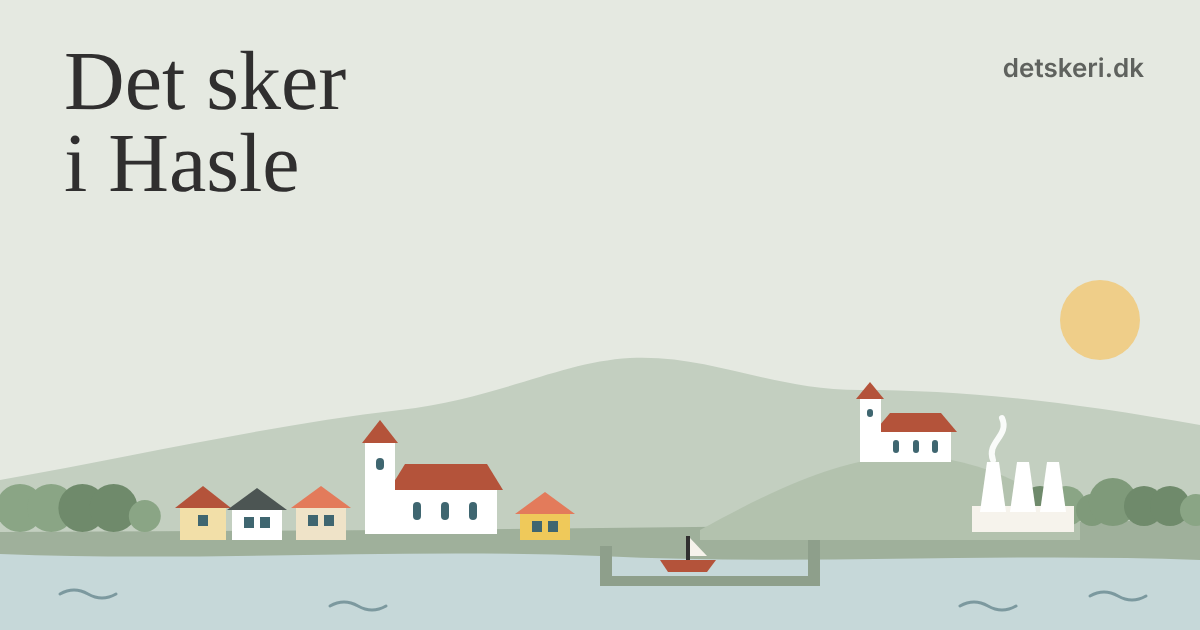
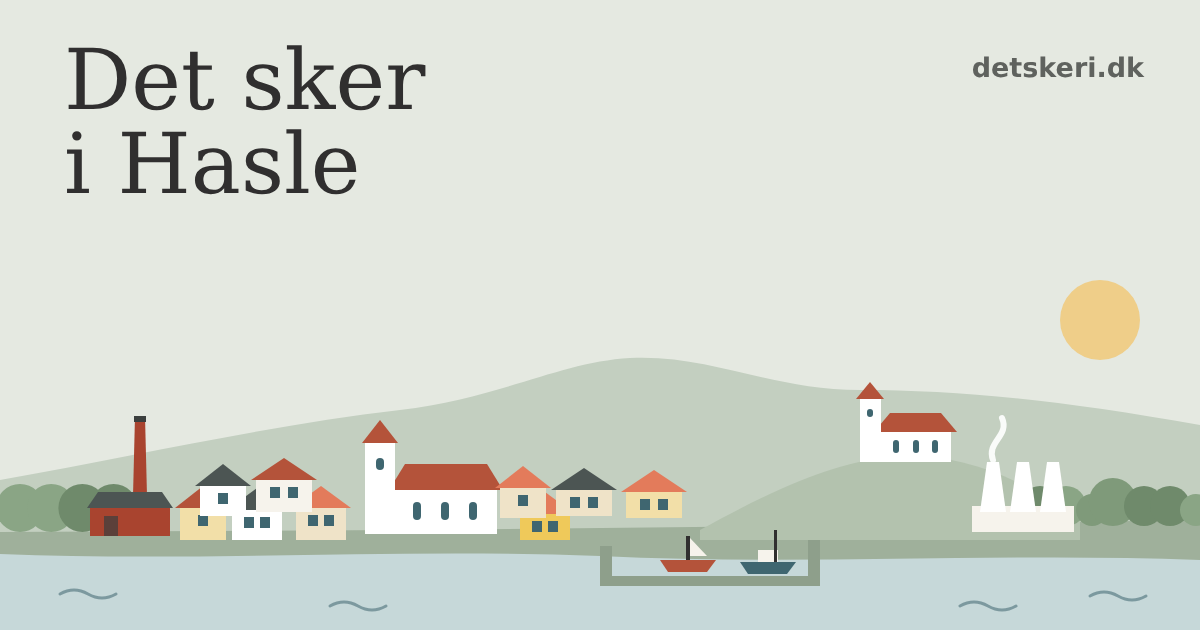
Svar på nyhedsbrev går til jannie@hotelklippen.dk; nye delebilleder med de nye tegninger
Claude-Session: https://claude.ai/code/session_01P4SWnJH6qEFdMWmVfTDnYx

diff --git a/tools/nyhedsbrev.py b/tools/nyhedsbrev.py
@@ -13,6 +13,7 @@ import build, tilmeld
 
 API = "https://api.brevo.com/v3"
 SENDER = {"name": "Det sker på Bornholm", "email": "nyhedsbrev@detskeri.dk"}
+REPLY_TO = "jannie@hotelklippen.dk"      # svar på nyhedsbrevet lander her (afsenderadressen har ingen postkasse)
 STATE = ROOT / "data" / "nyhedsbrev.json"
 GUDHJEM = {"slug": "gudhjem", "name": "Gudhjem", "towns": ["Gudhjem"], "url": "https://detskerigudhjem.dk/"}   # egen side: detskerigudhjem.dk
 PER_DAY = {"bornholm": 30}            # højst så mange pr. dag i øbrevet; resten ligger på siden
@@ -130,7 +131,7 @@ def main():
         s, b, n = render(g, events, start)
         if n == 0: print(g["slug"], "ingen arrangementer – springes over"); continue
         c = api("POST", "/emailCampaigns", key, {"name": f"Det sker – {g['name']} – {week}", "subject": s, "sender": SENDER,
-                                                   "htmlContent": b, "recipients": {"listIds": [lid]}, "inlineImageActivation": False})
+                                                   "htmlContent": b, "recipients": {"listIds": [lid]}, "inlineImageActivation": False, "replyTo": REPLY_TO})
         api("POST", f"/emailCampaigns/{c['id']}/sendNow", key)
         state[g["slug"]] = week
         STATE.write_text(json.dumps(state, ensure_ascii=False, indent=1), encoding="utf-8")

diff --git a/tools/brevo_opsaet.py b/tools/brevo_opsaet.py
@@ -32,14 +32,14 @@ def main():
     if not key: print("BREVO_API_KEY mangler"); return
     api = lambda m, p, d=None: nyhedsbrev.api(m, p, key, d)
     api("PUT", f"/smtp/templates/{DOI_TEMPLATE}", {"sender": nyhedsbrev.SENDER, "subject": "Bekræft din tilmelding til Det sker på Bornholm",
-                                                   "htmlContent": DOI_HTML, "isActive": True})
+                                                   "htmlContent": DOI_HTML, "isActive": True, "replyTo": nyhedsbrev.REPLY_TO})
     print("Bekræftelsesmail opdateret")
     build.LANG = "da"
     events = build.all_events(json.loads((ROOT / "data" / "events.json").read_text(encoding="utf-8"))["events"])
     g = build.GUIDES[0]
     s, b, n = nyhedsbrev.render(g, events, datetime.datetime.now(build.TZ).date())
     b = b.replace("{{ unsubscribe }}", "https://detskeri.dk/")      # prøven sendes uden for en liste
-    api("POST", "/smtp/email", {"sender": nyhedsbrev.SENDER, "to": [{"email": PROEVE}], "subject": "PRØVE: " + s, "htmlContent": b})
+    api("POST", "/smtp/email", {"sender": nyhedsbrev.SENDER, "to": [{"email": PROEVE}], "subject": "PRØVE: " + s, "htmlContent": b, "replyTo": {"email": nyhedsbrev.REPLY_TO}})
     print("Prøvebrev sendt:", s, n, "arrangementer")
 
 if __name__ == "__main__":

diff --git a/tools/mailbilleder.py b/tools/mailbilleder.py
@@ -20,3 +20,17 @@ with sync_playwright() as p:
 for f in OUT.glob("mail-*.png"):
     Image.open(f).convert("RGB").resize((1200, 380), Image.LANCZOS).save(f, optimize=True)
 print("ok")
+
+# Delebilleder til Facebook m.m. (static/del-<by>.png, 1200×630): titel øverst, tegningen nederst
+TITLES = {"bornholm": "Det sker<br>på Bornholm", "roenne": "Det sker<br>i Rønne", "svaneke": "Det sker<br>i Svaneke", "allinge": "Det sker<br>i Allinge",
+          "nexoe": "Det sker<br>i Nexø", "hasle": "Det sker<br>i Hasle"}
+with sync_playwright() as p:
+    b = p.chromium.launch(); pg = b.new_page(viewport={"width": 1200, "height": 630})
+    for slug, t in TITLES.items():
+        svg = tegning.svg(slug).replace('class="town"', 'style="position:absolute;left:0;bottom:0;width:1200px;height:380px"')
+        pg.set_content(f"""<body style="margin:0;width:1200px;height:630px;background:#e5e9e1;position:relative;overflow:hidden">
+<div style="position:absolute;left:64px;top:38px;font:400 84px/1 Georgia,'DejaVu Serif',serif;color:#302f2f">{t}</div>
+<div style="position:absolute;right:56px;top:52px;font:700 27px 'DejaVu Sans',Arial,sans-serif;color:#5f625e">detskeri.dk</div>{svg}</body>""")
+        pg.screenshot(path=str(OUT / f"del-{slug}.png"))
+    b.close()
+print("delebilleder ok")
